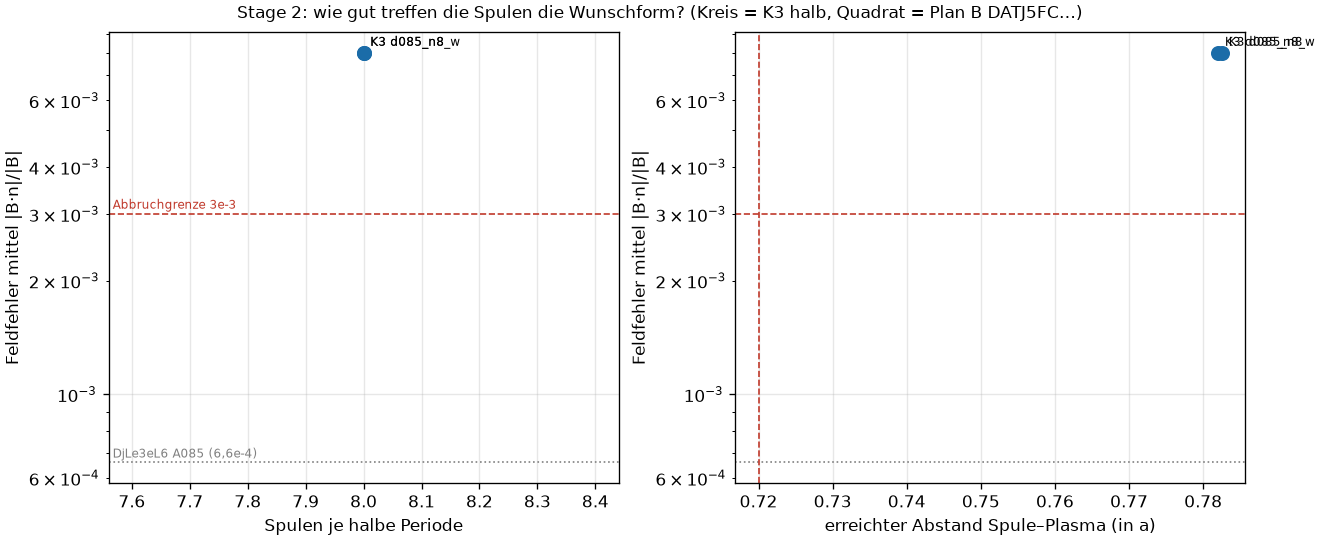
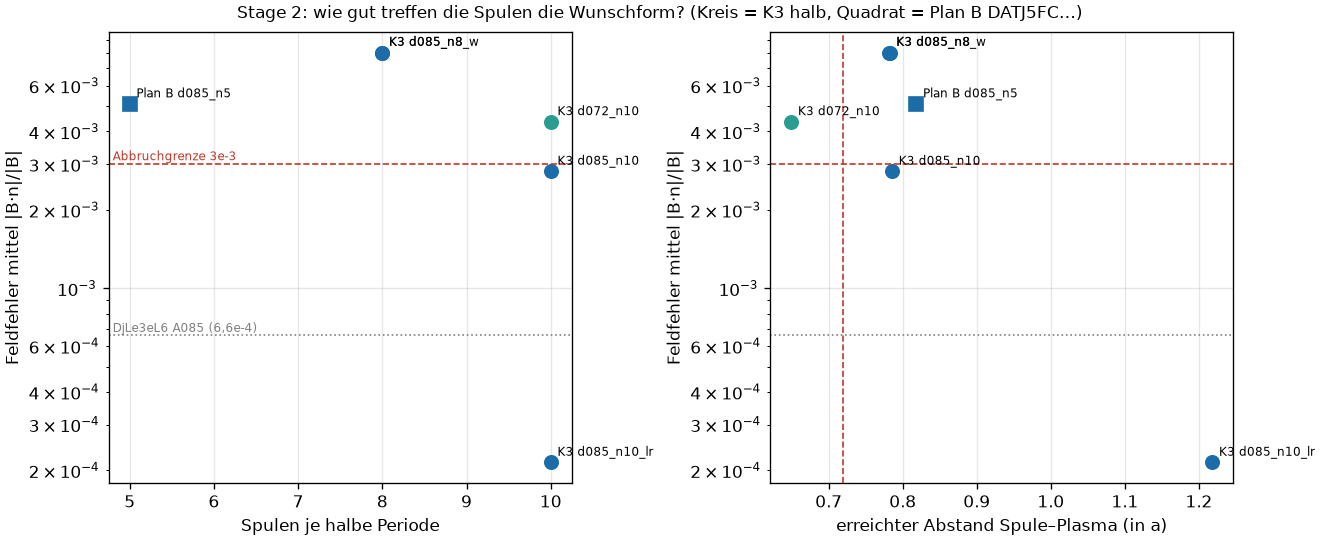
Kette K3 komplett: eigene Spulen K3 halb (2,1e-4), PicoGK-Rohre, freie Grenze Verlustfaktor 1,14-1,17 (B-059, B-060)

diff --git a/stellarator/k3_spulen.py b/stellarator/k3_spulen.py
@@ -60,9 +60,12 @@ def lauf(fall, maxiter=2000, runden=2):
     if (AUS / f"{fall}.fertig").exists():
         print("fertig, uebersprungen:", fall); return
     weiter = fall.endswith("_w"); kern = fall[:-2] if weiter else fall
-    teile = kern.split("_"); kern = "_".join(teile[:2]); rb = 0.5   # Varianten: _o<Ordnung>, _k<Biegeradius in 1/100 a>
+    teile = kern.split("_"); kern = "_".join(teile[:2]); rb = 0.5   # Varianten: _o<Ordnung>, _k<Biegeradius in 1/100 a>, _lr
+    laenge_ref = False                                            # _lr: Laengengrenze wie zwei_ringe (24,9 a je Spule, Proxima-Satz)
     for t in teile[2:]:
-        if t.startswith("o"):
+        if t == "lr":
+            laenge_ref = True
+        elif t.startswith("o"):
             zr.ORD = int(t[1:])
         elif t.startswith("k"):
             rb = int(t[1:]) / 100
@@ -76,6 +79,8 @@ def lauf(fall, maxiter=2000, runden=2):
         phi = (i + 0.5) * 2 * np.pi / (2 * nfp * n)
         basis.append(zr.startkurve(s_v, phi, 1.08 * d * a)); I0.append(1e5)
     l_start = float(sum(CurveLength(c).J() for c in basis)); l_max = 1.25 * l_start
+    if laenge_ref:                                                # wie zwei_ringe.optimieren: n * (Mittel Proxima-Satz + Umfangszuwachs)
+        l_max = float(n * (np.mean(ref["ringe"]["ring0"]["laenge_basis_a"]) + 2 * np.pi * max(d - 0.85, 0)) * a)
     roh = [Current(x / 1e5) for x in I0]
     if weiter:                                                    # Kurven und Stroeme aus dem fertigen Lauf
         from simsopt import load
@@ -120,7 +125,7 @@ def lauf(fall, maxiter=2000, runden=2):
             if v:
                 w[k] *= 10
     e.update(fall=fall, abstand_soll_a=d, spulen_je_halbperiode=n, form=str(FORM.relative_to(ROOT)),
-             grenzen={"spule_spule_min_a": 0.3, "biegeradius_min_a": rb, "fourier_ordnung": zr.ORD, "msk_max": msk_max, "laenge_max": l_max, "laenge_start": l_start},
+             grenzen={"spule_spule_min_a": 0.3, "biegeradius_min_a": rb, "fourier_ordnung": zr.ORD, "laengenregel": "zwei_ringe" if laenge_ref else "1,25 x Start", "msk_max": msk_max, "laenge_max": l_max, "laenge_start": l_start},
              konvergenz={"runden": len(verlauf), "letzte_meldung": verlauf[-1]["meldung"], "grenzen_verletzt": verlauf[-1]["verletzt"],
                          "iter_letzte": verlauf[-1]["iter"]}, laufzeit_s=time.time() - t0,
              laenge_summe=float(sum(CurveLength(c).J() for c in basis)))

diff --git a/stellarator/qi_spulen.py b/stellarator/qi_spulen.py
@@ -134,15 +134,18 @@ def tabelle(name="basis", spec=None, nzeta=None):
     r = np.linspace(gi["r_min"], gi["r_max"], NR); z = np.linspace(gi["z_min"], gi["z_max"], NZ)
     ph = 2 * np.pi / nfp * np.arange(nzeta) / nzeta
     P, Zg, Rg = np.meshgrid(ph, z, r, indexing="ij")          # Reihenfolge (k, jz, ir) wie mgrid_provider
-    xyz = np.stack([Rg * np.cos(P), Rg * np.sin(P), Zg], -1).reshape(-1, 3)
-    br, bp, bz = [], [], []
+    xyz = np.ascontiguousarray(np.stack([Rg * np.cos(P), Rg * np.sin(P), Zg], -1).reshape(-1, 3))
+    c, s = np.cos(P.ravel()), np.sin(P.ravel()); del Rg, Zg
+    # vorbelegte Felder statt Listen (2026-11-07: 10 Gruppen x nzeta 100 sprengten mit Liste + np.array-Kopie den 6-GB-Scope)
+    br, bp, bz = (np.empty((len(basis), len(xyz))) for _ in range(3))
     for g in range(len(basis)):
         sp = coils_via_symmetries([basis[g]], [Current(1.0)], nfp, True)
-        bs = BiotSavart(sp); bs.set_points(np.ascontiguousarray(xyz)); B = bs.B()
-        c, s = np.cos(P.ravel()), np.sin(P.ravel())
-        br.append(B[:, 0] * c + B[:, 1] * s); bp.append(-B[:, 0] * s + B[:, 1] * c); bz.append(B[:, 2])
+        bs = BiotSavart(sp); bs.set_points(xyz); B = bs.B()
+        br[g] = B[:, 0] * c + B[:, 1] * s; bp[g] = -B[:, 0] * s + B[:, 1] * c; bz[g] = B[:, 2]
+        del bs, B, sp
         print("Gruppe", g, "fertig", flush=True)
-    np.savez(datei, b_r=np.array(br), b_p=np.array(bp), b_z=np.array(bz), r=r, z=z, phi=ph, nfp=nfp, nzeta=nzeta,
+    del xyz, c, s
+    np.savez(datei, b_r=br, b_p=bp, b_z=bz, r=r, z=z, phi=ph, nfp=nfp, nzeta=nzeta,
              gamma=np.array([k.gamma() for k in basis]), spec=json.dumps(spec or {}), **{k: v for k, v in gi.items()})
     return datei
 

diff --git a/stellarator/kette_k3_bilder.py b/stellarator/kette_k3_bilder.py
@@ -28,11 +28,13 @@ def profil():
               ("DjLe3eL6 frei, eigene Spulen A085, 3000", K / "satz_A085/frei/faelle/k_n3000.json", "#1b6ca8", "--"),
               ("DjLe3eL6 frei, eigene Spulen A085, 12000", K / "satz_A085/frei/faelle/k_n12000.json", "#1b6ca8", ":"),
               ("DjLe3eL6 frei, A085 nach PicoGK-Glättung", K / "satz_A085_glatt/frei/faelle/k_n3000.json", "#2a9d8f", "-.")]
-    for p in sorted(K.glob("stage2/satz_*/frei/faelle/fest_nz48.json")):
+    for p in sorted(K.glob("stage2/satz_*/frei/faelle/fest_nz*.json")):
         reihen.append((f"K3 halb fest (ohne Spulen)", p, "#6a4c93", "-"))
         break
+    farbe = {"d085_n10": "#f4a261", "d085_n10_lr": "#e76f51", "d085_n10_lr_glatt": "#9b2226", "d085_n8": "#e9c46a"}
     for p in sorted(K.glob("stage2/satz_*/frei/faelle/k_n*.json")):
-        reihen.append((f"K3 halb frei, eigene Spulen {p.parts[-4][5:]}, {p.stem[3:]}", p, "#e76f51", "--"))
+        satz = p.parts[-4][5:]
+        reihen.append((f"K3 halb frei, eigene Spulen {satz}, {p.stem[3:]}", p, farbe.get(satz, "#e76f51"), ":" if "12000" in p.stem else "--"))
     fig, ax = plt.subplots(figsize=(9, 5.5), constrained_layout=True)
     for lab, p, c, ls in reihen:
         if not p.exists():

diff --git a/docs/recherche/spulen_suche/kette_k3.md b/docs/recherche/spulen_suche/kette_k3.md
@@ -2,104 +2,145 @@
 
 **Frage.** Lässt sich unser bestes eigenes Plasma (Kandidat 3 halb, „K3 halb“, nfp 2) durch die ganze Kette führen: Plasmaform → Spulenkurven (Rückwärtsproblem, „Stage 2“) → Glättung → Wickelpaket als Rohr in PicoGK → STL → Plasma aus dem Spulenfeld (VMEC++ freie Grenze) → Verlustfaktor QI(mit Spulen)/QI(Plasma)?
 
-**Kurzantwort.** STAND_KURZ
+**Kurzantwort.** Ja. Für K3 halb gibt es jetzt einen eigenen Spulensatz (40 Spulen, Feldfehler 2,1·10⁻⁴, Abstand zum Plasma 1,22 a), daraus geschlossene Rohre als STL (PicoGK, geglättet), und das Plasma aus diesem Spulenfeld hat QI 5,6·10⁻⁵ statt 4,8·10⁻⁵ ohne Spulen: **Verlustfaktor 1,17** am Rand (3000 Rechenschritte; mit 12000 Schritten 1,14), 1,26 in halber Tiefe. Damit bleibt K3 halb auch mit Spulen etwa 8-mal besser als DjLe3eL6 mit eigenen Spulen. Die Glättung kostet praktisch nichts (Feldfehler +0,05 %, QI am Rand +0,02 %). Zwei Einschränkungen: Die Spulen sind lang (27 bis 55 m), stark gewunden und liegen so eng beieinander (0,54 m), dass sich Rohre von 0,85 m Durchmesser durchdringen; und der Randwert der freien Grenze ist rechnerisch nicht ganz sicher (siehe Schritt 1).
 
-Befunde B-059 und B-060, Erwartungen und Ergebnisse im Ereignisprotokoll F-261 bis F-266. Vorarbeit: Machbarkeit B-058 (`spulen_machbarkeit.md`), Kettenbild `kette_plasma_maschine.md`.
+Befunde B-059 und B-060, Erwartungen und Ergebnisse im Ereignisprotokoll F-261 bis F-271. Vorarbeit: Machbarkeit B-058 (`spulen_machbarkeit.md`), Kettenbild `kette_plasma_maschine.md`.
 
 ## Begriffe (für Maschinentechniker)
 
-- **Feldfehler B·n/|B|**: Anteil des Spulenfeldes, der *durch* die gewünschte Plasmaoberfläche hindurchstößt. Ideal 0: dann laufen die Feldlinien genau an der Wunschfläche entlang. Wie eine Passung: 6,6·10⁻⁴ heißt, das Feld steht im Mittel um 0,04° schief zur Fläche.
-- **Stage 2**: die Spulenkurven so verbiegen, dass der Feldfehler klein wird, unter Nebenbedingungen (Abstand zum Plasma, kleinster Biegeradius, Abstand der Spulen untereinander, Länge).
-- **Freie Grenze**: VMEC++ bekommt nur die Spulen und sucht selbst, wo das Plasma sitzt. Fest = Plasmaform vorgegeben (Wunsch). Der Vergleich frei/fest zeigt, was die Spulen vom Wunsch übrig lassen.
-- **Verlustfaktor**: QI frei / QI fest am Plasmarand. 1 = Spulen treffen das Wunschfeld perfekt.
+- **Feldfehler B·n/|B|**: Anteil des Spulenfeldes, der *durch* die gewünschte Plasmaoberfläche hindurchstößt. Ideal 0: dann laufen die Feldlinien genau an der Wunschfläche entlang. Wie eine Passung: 2·10⁻⁴ heißt, das Feld steht im Mittel um etwa 0,01° schief zur Fläche.
+- **Stage 2**: die Spulenkurven so verbiegen, dass der Feldfehler klein wird, unter Nebenbedingungen (Abstand zum Plasma, kleinster Biegeradius, Abstand der Spulen untereinander, Gesamtlänge).
+- **Freie Grenze**: VMEC++ bekommt nur die Spulen und sucht selbst, wo das Plasma sitzt. **Fest** = Plasmaform vorgegeben (Wunsch). Der Vergleich frei/fest zeigt, was die Spulen vom Wunsch übrig lassen.
+- **Verlustfaktor**: QI frei / QI fest. 1 = Spulen treffen das Wunschfeld perfekt.
 - **QI**: Maß, wie gut gefangene Teilchen im Feld gehalten werden (kleiner = besser).
+- **a**: kleiner Plasmaradius (hier als 1,80 m angenommen); Abstände werden in a angegeben, weil sie dann nicht vom Maßstab abhängen.
 - **TripleOffset (PicoGK)**: Körper erst um g nach innen versetzen, dann um 2 g nach außen, dann um g nach innen. Ecken und Kanten unter g verschwinden, der Rest bleibt gleich – wie Entgraten mit einem Kugelfräser vom Radius g.
 
 ## Annahmen (gekennzeichnet)
 
 | Größe | Wert | Herkunft |
 |---|---|---|
-| Anlagenmaßstab | kleiner Radius a = 1,80 m | wie `zwei_ringe.py` (A_REAL), Annahme der Kette |
+| Anlagenmaßstab | kleiner Radius a = 1,80 m | wie `zwei_ringe.py`, Annahme der Kette |
 | Rohrdurchmesser | 0,852 m (Kreis) | flächengleich zum quadratischen Wickelpaket 0,7552 m der Kette (`kopplung.WP_M`, Stufe 0) |
 | Voxelgröße / Glättung | 25 mm / TripleOffset 100 mm | eigene Wahl |
-| Stage-2-Grenzen | Biegeradius ≥ 0,5 a, Spule–Spule ≥ 0,3 a, mittlere quadr. Krümmung wie Proxima-Satz (maßstabsgerecht), Länge ≤ 1,25 × Startlänge | `zwei_ringe.py`, Länge neu (Annahme) |
-| Freie Grenze | 5 Toroidalpunkte je Spulenabstand (nzeta 48 bei 10 Spulen/Periode, 80 bei 16), 3000 Schritte, Ergebnis auch ohne volle Toleranz | Einstellungen k_n3000 aus B-053 |
+| Stage-2-Grenzen | Biegeradius ≥ 0,5 a, Spule–Spule ≥ 0,3 a, mittlere quadratische Krümmung wie Proxima-Satz (maßstabsgerecht), Gesamtlänge ≤ 24,9 a je Spule | `zwei_ringe.py` (Länge = Mittel des Proxima-Satzes von DjLe3eL6) |
+| Freie Grenze | 5 Toroidalpunkte je Spulenabstand (nzeta 48 bei DjLe3eL6, 100 bei K3), 3000 bzw. 12000 Schritte, Ergebnis auch ohne volle Toleranz | Einstellungen k_n3000/k_n12000 aus B-053 |
 
 ## Schritt 1: Spulen-Leser und Prüfstein mit eigenen A085-Spulen (DjLe3eL6)
 
-Werkzeug: `stellarator/spulen_satz.py` schreibt einen simsopt-Spulensatz in einen Satz-Ordner (Plasmarand + Basiskurven, Längenfaktor), `stellarator/qi_spulen.py` liest ihn mit `QI_SATZ=<Ordner>` (ohne Variable unverändert Proxima). Die A085-Spulen aus `zwei_ringe.py` lagen im 1,699-fachen Maßstab und wurden zurückgerechnet; der Feldfehler stimmt danach auf fünf Stellen (6,5978·10⁻⁴).
+Werkzeug: `stellarator/spulen_satz.py` schreibt einen simsopt-Spulensatz in einen Satz-Ordner (Plasmarand + Basiskurven, Längenfaktor), `stellarator/qi_spulen.py` liest ihn mit `QI_SATZ=<Ordner>` (ohne Variable unverändert Proxima). Die A085-Spulen aus `zwei_ringe.py` lagen im 1,699-fachen Maßstab und wurden zurückgerechnet; der Feldfehler stimmt danach auf fünf Stellen (6,5978·10⁻⁴). Die feste Rechnung trifft den früheren Wert bitgleich (0,00044558).
 
-| | QI Rand | Verlustfaktor | Randabweichung mittel / max | iota Rand/nfp |
-|---|---|---|---|---|
-| fest (Wunsch, nzeta 48) | 0,000446 | 1 | – | 0,0904 |
-| frei, Proxima-Spulen (B-053) | 0,000579 | 1,30 | 0,0125 a / – | – |
-| frei, eigene A085-Spulen | 0,000451 | **1,013** | 0,010 a / 0,066 a | 0,0968 |
-| frei, A085, 12000 Schritte | A085_12000 | | | |
-| frei, A085 nach PicoGK-Glättung | A085_GLATT | | | |
+| DjLe3eL6 | QI Rand | Verlustfaktor Rand | s = 0,5 | Randabweichung mittel / max | iota Rand/nfp |
+|---|---|---|---|---|---|
+| fest (Wunsch, nzeta 48) | 0,000446 | 1 | 1 | – | 0,0904 |
+| frei, Proxima-Spulen, 3000 / 12000 Schritte (B-053) | 0,000579 / 0,000671 | 1,30 / 1,50 | – | 0,0125 a / – | – |
+| frei, eigene A085-Spulen, 3000 Schritte | 0,000451 | **1,013** | 1,011 | 0,010 a / 0,066 a | 0,0968 |
+| frei, eigene A085-Spulen, 12000 Schritte | 0,000558 | **1,25** | 1,004 | 0,009 a / 0,089 a | 0,0943 |
+| frei, A085 nach PicoGK-Glättung, 3000 Schritte | 0,000452 | 1,013 | 1,010 | 0,010 a / – | – |
 
 ![QI je Fläche](kette_k3/qi_profil.png)
 
-**Lesehilfe.** Waagerecht: Lage im Plasma, links die Mitte (Achse), rechts der Rand. Senkrecht: QI-Fehler jeder Fläche, logarithmisch (eine Teilung = Faktor 10, unten ist besser). Schwarz ist das Wunschplasma ohne Spulen. Rot ist das Plasma, das die fremden Proxima-Spulen erzeugen: nach außen hin bis 50 % schlechter. Blau sind unsere eigenen A085-Spulen: fast deckungsgleich mit Schwarz, am Rand nur 1 % schlechter. Gestrichelt und gepunktet sind zwei Rechenlängen (3000/12000 Schritte); liegen sie aufeinander, ist das Ergebnis stabil.
+**Lesehilfe.** Waagerecht: Lage im Plasma, links die Mitte (Achse), rechts der Rand. Senkrecht: QI-Fehler jeder Fläche, logarithmisch (eine Teilung = Faktor 10, unten ist besser). Oben die Form DjLe3eL6: schwarz ohne Spulen, rot mit den fremden Proxima-Spulen (nach außen bis 50 % schlechter), blau mit unseren A085-Spulen (fast deckungsgleich mit Schwarz), türkis dieselben nach der PicoGK-Glättung (liegt auf Blau). Unten, etwa zehnmal besser, unser Plasma K3 halb: violett ohne Spulen, hellorange mit dem schwächeren K3-Satz d085_n10, rot mit dem besten Satz d085_n10_lr (gepunktet 12000 Schritte, dunkelrot nach der PicoGK-Glättung – liegt genau auf dem roten 3000er-Verlauf und verdeckt ihn). Alle K3-Verläufe mit Spulen liegen nur wenig über Violett: Die Spulen kosten 14 bis 33 % am Rand, die Form gewinnt gegenüber DjLe3eL6 einen Faktor 8. Gestrichelt = 3000, gepunktet = 12000 Rechenschritte; wo sie auseinanderlaufen, ist der Wert nicht sicher.
 
-**Belegt:** Die Kette Spulen-JSON → Feldtabelle → VMEC++ freie Grenze → QI läuft mit eigenen Spulen. Ein kleinerer Feldfehler (6,6·10⁻⁴ statt 2,4·10⁻³) gibt hier einen viel kleineren Verlust (1,01 statt 1,30). **Folgerung:** Der große Verlust mit Proxima-Spulen in B-053 lag am Spulensatz, nicht an der freien Grenze.
+**Belegt:** Die Kette Spulen-JSON → Feldtabelle → VMEC++ freie Grenze → QI läuft mit eigenen Spulen. Eigene Spulen mit kleinerem Feldfehler (6,6·10⁻⁴ statt 2,4·10⁻³) verlieren 17 bis 22 % weniger als Proxima. **Einschränkung (belegt):** Der Randwert der freien Grenze hängt von der Rechenlänge ab (1,01 bei 3000, 1,25 bei 12000 Schritten), innen nicht (s = 0,5: 1,00 bis 1,01). Der Verlustfaktor am Rand ist darum auf etwa ±10 % unsicher; Vergleiche nur bei gleicher Einstellung, s = 0,5 immer mitmelden.
 
 ## Schritt 2: Stage 2 für K3 halb
 
-STAGE2
+Werkzeug `stellarator/k3_spulen.py`: der Ansatz von `zwei_ringe.py` (Start an der um den Sollabstand versetzten Randlinie, Fourier-Ordnung 7, Strafen für Abstand, Krümmung, Spule–Spule, Länge), verallgemeinert auf jede Randform. Läufe je 7 bis 19 Minuten, höchstens zwei gleichzeitig, jeder in einem eigenen 6-GB-Scope.
+
+| Lauf | Spulen | Längengrenze | Feldfehler mittel / max | Abstand Spule–Plasma | Spule–Spule |
+|---|---|---|---|---|---|
+| K3 d085_n8 (+ 2 Runden Fortsetzung) | 32 | 1,25 × Startlänge | 8,0·10⁻³ / 5,0·10⁻² | 0,78 a | 0,76 a |
+| K3 d072_n10 | 40 | 1,25 × Startlänge | 4,35·10⁻³ / 2,9·10⁻² | 0,62 a (unter Grenze 0,72 a) | 0,66 a |
+| K3 d085_n10 | 40 | 1,25 × Startlänge | 2,80·10⁻³ / 1,8·10⁻² | 0,79 a | 0,56 a |
+| **K3 d085_n10_lr** | 40 | 24,9 a je Spule (wie zwei_ringe) | **2,15·10⁻⁴ / 1,7·10⁻³** | **1,22 a** | 0,30 a (Grenze) |
+| Plan B DATJ5FC… d085_n5 | 40 | 1,25 × Startlänge | 5,0·10⁻³ / 3,1·10⁻² | 0,82 a | 0,59 a |
+| Kontrolle DjLe3eL6 d085_n5 (1 Runde) | 40 | 1,25 × Startlänge | 4,36·10⁻³ | 0,81 a | 0,69 a |
+| Kontrolle DjLe3eL6 d085_n5_lr (2 Runden) | 40 | 24,9 a je Spule | 9,0·10⁻⁴ (zwei_ringe A085: 6,6·10⁻⁴) | 0,83 a | 0,30 a |
+
+![Stage 2](kette_k3/stage2.png)
+
+**Lesehilfe.** Jeder Punkt ist ein Spulenentwurf. Links: Feldfehler über der Zahl der Spulen je halber Periode; rechts: Feldfehler über dem erreichten Abstand Spule–Plasma. Senkrecht logarithmisch, unten ist besser. Rot gestrichelt die Abbruchgrenze 3·10⁻³ (über ihr gilt ein Entwurf als unbrauchbar) und rechts die Mindestabstandsgrenze 0,72 a (≈ 1,3 m Abschirmung). Grau gepunktet der Bezug A085 (DjLe3eL6). Kreise K3 halb, Quadrat Plan B. Der Punkt ganz unten rechts (d085_n10_lr) ist der einzige, der beide Grenzen klar einhält.
+
+**Was schiefging und wie es gefunden wurde.** Die ersten fünf Läufe blieben bei 2,8·10⁻³ bis 8·10⁻³ hängen, auch Plan B, obwohl diese Form der DjLe3eL6 ähnelt, für die Stage 2 schon 6,6·10⁻⁴ erreicht hatte. Ein Kontrolllauf meines Skripts auf DjLe3eL6 ergab 4,4·10⁻³ statt 6,6·10⁻⁴ – also lag es am Skript. Ursache (gemessen): meine eigene Längengrenze (1,25 × Startlänge) war bindend, die Spulen endeten genau an ihr (K3: 172,4 a bei Grenze 172,3 a). Mit der Längenregel aus `zwei_ringe.py` fiel der Feldfehler von K3 auf 2,15·10⁻⁴ (Faktor 13), die Kontrolle auf 9,0·10⁻⁴ (Größenordnung von A085, nicht bitgleich: andere Flächenauflösung). Lehre: ein verallgemeinertes Skript erst am bekannten Fall prüfen.
+
+**Belegt:** K3 halb lässt sich mit Einzelspulen dieses Typs treffen (2,15·10⁻⁴, besser als A085 bei DjLe3eL6). **Folgerung:** Die Befürchtung aus B-058 (gestreckte Form, kleine Gradientenlänge → Spulen müssen sehr nah ran) trifft nicht zu, solange die Spulen lang genug sein dürfen. Der Preis: Gesamtlänge an der Grenze (249 a ≈ 450 m je halbe Periode), Biegeradius und Spule–Spule ebenfalls an ihren Grenzen. Plan B wurde mit der richtigen Längenregel nicht mehr gerechnet (nicht nötig, Zeit).
 
 ## Schritt 3: Rohr in PicoGK, Glättung, STL
 
-Ablauf: Jede Basisspule (eine halbe Periode, die anderen sind Spiegel- und Drehkopien) wird in PicoGK als Kette kurzer Balken mit Kreisquerschnitt entlang der Mittellinie (400 Punkte) aufgebaut, voxelisiert (25 mm), mit TripleOffset 100 mm geglättet und als STL je Spule und als Vereinigung geschrieben (`stellarator/k3_rohr.py`, Konsolen-App `picogk/SpulenRohr`, headless, ohne Fenster). Prüfung in Python: offene Kanten, Durchmesser je Querschnitt, Abstand zur Plasmafläche, und die Mittellinie des geglätteten Rohrs wird per Kreisausgleich je Querschnitt zurückgewonnen und erneut als Spule gerechnet. So wird der Verlust durch die Glättung eine eigene Zahl.
+Ablauf: Jede Basisspule (eine halbe Periode, die anderen sind Spiegel- und Drehkopien) wird in PicoGK als Kette kurzer Balken mit Kreisquerschnitt entlang der Mittellinie (400 Punkte) aufgebaut, voxelisiert (25 mm), mit TripleOffset 100 mm geglättet und als STL je Spule und als Vereinigung geschrieben (`stellarator/k3_rohr.py`, Konsolen-App `picogk/SpulenRohr`, headless, ohne Fenster). Prüfung in Python: offene Kanten, Durchmesser je Querschnitt, Abstand zur Plasmafläche; die Mittellinie des geglätteten Rohrs wird per Kreisausgleich je Querschnitt zurückgewonnen und erneut als Spule gerechnet. So wird der Verlust durch die Glättung eine eigene Zahl. PicoGK läuft auf diesem Rechner ohne Fehler (eine Halbierungssuche war nicht nötig).
 
-Geprüft an zwei Spulensätzen: A085 (DjLe3eL6, 5 Basisspulen) und dem ersten K3-Satz d085_n8 (8 Basisspulen). PicoGK läuft auf diesem Rechner headless: 45 s bzw. 49 s für alle Rohre einer halben Periode.
+| Prüfung | A085 (DjLe3eL6) | K3 d085_n10 | **K3 d085_n10_lr** |
+|---|---|---|---|
+| Rechenzeit PicoGK | 45 s (5 Rohre) | 62 s (10) | 86 s (10) |
+| offene Kanten / mannigfaltig | 0 / ja | 0 / ja | 0 / ja |
+| Durchmesser je Querschnitt (Soll 0,852 m) | 0,851 bis 0,855 m | 0,851 bis 0,853 m | 0,851 bis 0,854 m |
+| Volumen gegen π r² L | −0,14 % | −0,14 % | −0,14 % (gleiches Verfahren) |
+| Mittellinie nach Glättung, Versatz mittel / max | 0,24–0,52 / 1,7 mm | 0,15–0,27 / 0,6 mm | 0,20–0,41 / 1,2 mm |
+| **Feldfehler-Änderung durch die Glättung** | **+0,015 %** | **+0,010 %** | **+0,05 %** |
+| **QI-Änderung durch die Glättung (frei, 3000)** | **+0,08 % Rand, −0,07 % s = 0,5** | nicht gerechnet | **+0,02 % Rand, −0,4 % s = 0,5** |
+| kleinster Abstand Rohroberfläche–Plasma | 1,05 m (0,58 a) | 0,95 m (0,53 a) | 1,76 m (0,98 a) |
+| Rohre durchdringen sich (Summe − Vereinigung) | 0,92 m³ | 0 | 0,81 m³ |
+| Rohrlängen | 30 bis 61 m | 17 bis 55 m | 27 bis 55 m |
 
-| Prüfung | A085 (DjLe3eL6) | K3 d085_n8 |
-|---|---|---|
-| offene Kanten / mannigfaltig | 0 / ja (alle 5) | 0 / ja (alle 8) |
-| Durchmesser je Querschnitt (Soll 0,852 m) | 0,851 bis 0,855 m | 0,851 bis 0,853 m |
-| Volumen gegen π r² L | −0,14 % | −0,14 % |
-| Mittellinie vor der Glättung (Messfehler des Rückgewinnens) | 0,2 bis 0,4 mm mittel | 0,15 bis 0,23 mm mittel |
-| Mittellinie nach der Glättung | 0,24 bis 0,52 mm mittel, max 1,7 mm | 0,15 bis 0,23 mm mittel, max 0,6 mm |
-| **Feldfehler-Änderung durch die Glättung** | **+0,015 %** | **+0,006 %** |
-| Feldfehler Rohr gesamt gegen Kurve | +0,013 % | +0,033 % |
-| **QI-Änderung durch die Glättung (freie Grenze, 3000 Schritte)** | **+0,08 % am Rand, −0,07 % bei s = 0,5** | nicht gerechnet |
-| kleinster Abstand Rohroberfläche–Plasma | 1,05 m (0,58 a, Spule S3) | 0,97 m (0,54 a, S8) |
-| Rohre durchdringen sich (Summe − Vereinigung) | 0,92 m³ | 0 (Spule–Spule 0,76 a = 1,37 m) |
-| Rohrlängen | 30 bis 61 m | 17 bis 52 m |
+![Rohre K3](kette_k3/rohr_K3_d085_n10_lr.png)
+
+**Lesehilfe.** Blick schräg von oben auf den ganzen Ring. Orange ist das Plasma von K3 halb, ein stark gestrecktes, verdrilltes Band; es wiederholt sich zweimal im Ring (nfp 2). Blau die geglätteten Rohre einer halben Periode (ein Viertel des Rings), grau die Mittellinien aller übrigen Spulen, die durch Drehen und Spiegeln entstehen. Die Spulen laufen nicht als einfache Ringe um das Plasma, sondern in weiten, gewellten Bügeln, dicht gebündelt; dort, wo sie sich fast berühren, durchdringen sich die 0,85-m-Rohre.
+
+![Schnitt K3](kette_k3/schnitt_K3_d085_n10_lr.png)
+
+**Lesehilfe.** Senkrechter Schnitt durch die Maschine bei φ = 2,1° (durch die Mitte der ersten Spule), wie ein Schnitt in der Zeichnung. Waagerecht der Abstand von der senkrechten Maschinenachse, senkrecht die Höhe, beides in Metern und im gleichen Maßstab. Orange: Plasmaquerschnitt (etwa 4 m hoch, 2,5 m breit). Blau: wo der Schnitt die Rohre trifft. Kreisrund erscheinen Rohre, die senkrecht durch die Ebene laufen (links und rechts vom Plasma, 3 bis 4 m Abstand); länglich erscheinen Rohre, die schräg durch die Ebene laufen. Die Rohrschnitte bis 10 m Höhe zeigen, wie weit die Bügel über das Plasma hinausragen – für ein Tragwerk ein großer Bauraum.
 
 ![Rohre A085](kette_k3/rohr_A085.png)
 
-**Lesehilfe.** Blick schräg von oben auf den ganzen Ring. Orange ist das Plasma (Wunschform), blau die geglätteten Rohre einer halben Periode (ein Achtel des Rings), grau die Mittellinien aller übrigen Spulen, die durch Drehen und Spiegeln entstehen. Man sieht: Die A085-Spulen machen Schleifen und Knoten. Rechnerisch treffen sie das Feld gut, gebaut würde man sie so nicht.
+**Lesehilfe.** Zum Vergleich DjLe3eL6 (nfp 4, darum viermal wiederholt) mit A085-Spulen. Auch hier machen die Spulen Schleifen und Knoten; rechnerisch gut, gebaut würde man sie so nicht.
 
-![Rohre K3](kette_k3/rohr_K3_d085_n8.png)
+![Rohre K3 erster Versuch](kette_k3/rohr_K3_d085_n8.png)
 
-**Lesehilfe.** Dasselbe für K3 halb (nfp 2, darum nur zwei Wiederholungen im Ring; die halbe Periode ist ein Viertel des Rings). Das Plasma ist ein stark gestrecktes Band. Die blauen Rohre umschlingen es teils in engen Windungen, teils laufen sie in weiten Bögen weit vom Plasma weg (bis etwa 8 m darüber, siehe Schnitt). Das ist ein Zeichen, dass der Optimierer mit der Form kämpft: Weit entfernte Bögen tragen kaum zum Feld am Plasma bei.
+**Lesehilfe.** Der erste K3-Versuch (d085_n8, zu enge Längengrenze, Feldfehler 8·10⁻³): Die Spulen schlingen sich teils eng ums Plasma und laufen teils in weiten Bögen weg – der Optimierer kämpfte gegen die Längengrenze.
 
-![Schnitt K3](kette_k3/schnitt_K3_d085_n8.png)
-
-**Lesehilfe.** Senkrechter Schnitt durch die Maschine bei φ = 1,6° (etwa durch die Mitte der ersten Spule), wie ein Schnitt in der Zeichnung. Waagerecht der Abstand von der senkrechten Maschinenachse, senkrecht die Höhe, beides in Metern und im gleichen Maßstab. Orange: Plasmaquerschnitt (gut 4 m hoch, 2,6 m breit). Blau: wo der Schnitt die Rohre trifft. Kreisrund erscheinen Rohre, die senkrecht durch die Schnittebene laufen (unten links und rechts, Abstand zum Plasma etwa 1 m); länglich erscheinen Rohre, die schräg durch die Ebene laufen. Die vier Rohrschnitte über 4 m Höhe gehören zu den weiten Bögen aus dem 3D-Bild.
-
-![Schnitt A085](kette_k3/schnitt_A085.png)
-
-**Lesehilfe.** Derselbe Schnitt für DjLe3eL6 mit A085-Spulen bei φ = 2,3°. Hier sitzen alle Rohre in 1,5 bis 2 m Abstand um das Plasma, aber auch hier laufen die meisten schräg durch die Ebene.
-
-**Belegt:** PicoGK baut die Rohre geschlossen und maßhaltig (±2 mm bei 25 mm Voxel), die Glättung durch TripleOffset kostet weniger als 0,02 % Feldfehler und 0,1 % QI. Grund: Der kleinste Biegeradius (0,5 a = 0,9 m) ist größer als der Rohrradius (0,43 m), die Glättung nimmt nur Voxelstufen weg. **Folgerung:** Der Verlust der Kette entsteht im Rückwärtsproblem (Stage 2) und in der freien Grenze, nicht in der Glättung. Bei A085 durchdringen sich die Rohre, weil die Spule–Spule-Grenze 0,3 a (0,54 m) kleiner ist als der Rohrdurchmesser (0,85 m); die Grenze müsste mindestens Rohrdurchmesser plus Spalt sein (≈ 0,5 a).
+**Belegt:** PicoGK baut die Rohre geschlossen und maßhaltig (±2 mm bei 25 mm Voxel), die Glättung durch TripleOffset kostet höchstens 0,05 % Feldfehler und bei A085 0,1 % QI. Grund: Der kleinste Biegeradius (0,5 a = 0,9 m) ist größer als der Rohrradius (0,43 m), die Glättung nimmt nur Voxelstufen weg. **Folgerung:** Der Verlust der Kette entsteht im Rückwärtsproblem und in der freien Grenze, nicht in der Glättung. Wo die Spulen auf die Grenze Spule–Spule 0,3 a (0,54 m) zusammenrücken, durchdringen sich Rohre von 0,85 m; für baubare Rohre muss diese Grenze mindestens Rohrdurchmesser plus Spalt sein (≈ 0,5 a), was den Feldfehler wieder erhöhen wird (nicht gerechnet).
 Methodenhinweis (Fehler unterwegs): Die erste Mittellinie aus dem Schwerpunkt der Netzpunkte im Querschnitt lag schon ohne Glättung 7 mm daneben (Feldfehler scheinbar +1,7 %); mit Kreisausgleich je Querschnitt 0,2 bis 0,5 mm.
 
 ## Schritt 4: freie Grenze für die K3-Spulen
 
-FREI
+| K3 halb (nzeta 100) | QI Rand | Verlustfaktor Rand | s = 0,5 | innen (s = 0,1 bis 0,9) | Randabweichung mittel / max | Elongation |
+|---|---|---|---|---|---|---|
+| fest (Wunsch) | 4,79·10⁻⁵ | 1 | 1 | 1 | – | 7,15 |
+| frei, Satz d085_n10 (Feldfehler 2,8·10⁻³), 3000 | 6,37·10⁻⁵ | **1,33** | 1,56 | 1,25 bis 1,58 | 0,019 a / 0,16 a | 6,78 |
+| frei, Satz d085_n10_lr (2,15·10⁻⁴), 3000 | 5,61·10⁻⁵ | **1,17** | 1,26 | 0,96 bis 1,30 | 0,018 a / 0,16 a | 6,81 |
+| frei, Satz d085_n10_lr, 12000 | 5,45·10⁻⁵ | **1,14** | 1,17 | 0,97 bis 1,20 | 0,014 a / 0,13 a | 6,92 |
+| frei, d085_n10_lr nach Glättung, 3000 | 5,61·10⁻⁵ | 1,17 | 1,25 | | 0,018 a / – | |
+
+iota am Rand und Spiegelverhältnis ändern sich um weniger als 1 % (0,0883 → 0,0881; 0,447 → 0,448). Die freie Grenze konvergierte in allen Fällen ohne Abbruch (Restkraft fsqr 2·10⁻¹²); eine Halbierungssuche war nicht nötig.
+
+**Belegt:** Unser Plasma behält mit eigenen Spulen QI 5,6·10⁻⁵ bis 6,4·10⁻⁵. Zum Vergleich DjLe3eL6 mit eigenen A085-Spulen: 4,5·10⁻⁴ bis 5,6·10⁻⁴, also etwa achtmal schlechter. Der Verlustfaktor (1,17 bis 1,33) bleibt deutlich unter der Meldegrenze 3 aus B-058. **Auffällig (Hinweis, nicht geprüft):** Beide K3-Sätze haben bei 3000 Schritten dieselbe Randabweichung (max 0,16 a) und verlieren gleich viel Elongation (7,15 → 6,8), obwohl ihr Feldfehler um Faktor 13 verschieden ist; mit 12000 Schritten schrumpft beides (0,13 a, Elongation 6,92) und QI wird besser (1,14 statt 1,17). Das deutet auf eine Grenze der Rechnung an den spitzen Enden des gestreckten Querschnitts, nicht auf die Spulen. Anders als bei DjLe3eL6 (1,01 → 1,25) wird der K3-Wert mit längerer Rechnung kleiner, nicht größer. Innen ist der Verlust des schlechteren Satzes größer als am Rand (1,56 gegen 1,33).
 
 ## Was offen bleibt
 
-OFFEN
+- **Baubarkeit der Spulen:** 40 Spulen von 27 bis 55 m Länge, an Biegeradius-, Längen- und Abstandsgrenze; Rohre durchdringen sich. Nächster Schritt: Stage 2 mit Spule–Spule ≥ 0,5 a (Rohr + Spalt) und dann Kräfte/Spannungen in der Tragwerkskette.
+- **Randwert der freien Grenze:** hängt von der Rechenlänge ab (DjLe3eL6: 1,01 bis 1,25); Ursache der gleichen Randabweichung beider K3-Sätze offen (Auflösung mpol/ntor der freien Grenze prüfen).
+- **Plan B** (DATJ5FC…) nur mit der zu engen Längengrenze gerechnet (5·10⁻³); mit der Regel aus zwei_ringe nicht gerechnet.
+- **Kontrolle** von `k3_spulen.py` gegen `zwei_ringe.py` nur in der Größenordnung (9,0·10⁻⁴ gegen 6,6·10⁻⁴, Faktor 1,36).
+- **B-057-Verdacht:** Die damals nicht konvergierten Fälle liefen ohne die Sondereinstellungen (nzeta 48, ftol, niter), mit denen alle konvergierten gerechnet wurden – das Scheitern kann daran liegen (nicht nachgerechnet).
 
 ## Laufende Rechnungen, Pause, Neustart
 
-LAEUFE
+Alle Rechnungen dieses Auftrags sind fertig, es läuft nichts mehr (Stand 10:28). Die Ketten sind wieder aufnehmbar, Fertiges wird übersprungen; Start immer aus dem Projektordner:
+
+| Kette | Inhalt | Neustart |
+|---|---|---|
+| `sim/kette_k3/lauf_schritt1.sh` | A085 frei (fest, 3000, 12000, geglättet) | `setsid nohup bash sim/kette_k3/lauf_schritt1.sh > sim/kette_k3/lauf_schritt1.log 2>&1 &` |
+| `sim/kette_k3/lauf_stage2.sh`, `lauf_stage2b.sh` | Stage 2 K3 (erste Fälle), Plan B, Varianten `_o10_k35` (abgebrochen, nicht gerechnet) | ebenso; gestrichene Fälle haben eine Sperre `.claim_<fall>` in `sim/kette_k3/stage2/` (Sperre löschen = Fall wird gerechnet) |
+| `sim/kette_k3/lauf_teil2.sh` … `lauf_teil5.sh` | freie Grenze d085_n10, Stage 2 `_lr`, Kontrolle, 12000 Schritte, geglätteter Satz | ebenso |
+| `sim/kette_k3/lauf_frei_k3.sh <fall> [<endung> [<nzeta>]]` | freie Grenze für einen beliebigen K3-Satz | direkt |
+
+Jede Rechnung läuft über `sim/kette_k3/slot.sh` (höchstens zwei gleichzeitig, eigener Scope mit 6 GB) und lässt sich mit `~/bin/rechnung pause` anhalten und mit `~/bin/rechnung weiter` fortsetzen; nach einem Neustart des Rechners beginnt eine angefangene Einzelrechnung neu.
 
 ---
 
 ## English summary
 
-SUMMARY
+**Question.** Can our own best plasma (candidate 3 half, “K3 half”, nfp 2) be carried through the whole chain: plasma shape → coil curves (stage 2) → smoothing → winding pack as a tube in PicoGK → STL → plasma from the coil field (VMEC++ free boundary) → loss factor QI(coils)/QI(plasma)?
+
+**Answer.** Yes. Step 1: `qi_spulen.py` now reads own simsopt coil sets (`QI_SATZ=<folder>`); the check with the existing A085 coils for DjLe3eL6 gives a free-boundary loss factor of 1.01 (3000 steps) to 1.25 (12000 steps), versus 1.30–1.50 with Proxima's coils; the edge value depends on the solver length, the value at half radius does not (1.00–1.01). Step 2: the generalised stage-2 script first stalled at mean normal-field errors of 2.8e-3 to 8e-3; a control run on DjLe3eL6 showed that my own length limit was binding. With the length rule of `zwei_ringe.py`, K3 half reaches 2.15e-4 at 1.22 a coil–plasma distance with 40 coils (27–55 m long, at the curvature, length and coil–coil limits). Step 3: PicoGK (headless console app) builds closed, dimensionally accurate tubes (0.852 m diameter, assumption: area-equivalent to the 0.7552 m square winding pack; a = 1.80 m); smoothing by triple offset changes the field error by at most 0.05 % and QI by 0.1 % (A085). Tubes interpenetrate where coils come within 0.54 m. Step 4: the free boundary for the K3 coils gives QI 5.6e-5 versus 4.8e-5 for the fixed boundary, a loss factor of 1.17 at the edge and 1.26 at half radius (1.14 and 1.17 with 12000 steps); a worse coil set (2.8e-3) gives 1.33/1.56. K3 half with coils therefore stays about eight times better than DjLe3eL6 with its own coils. Open: buildability (coil–coil limit ≥ tube diameter, forces), edge convergence of the free boundary, plan B with the correct length rule.

diff --git a/BEFUNDE.md b/BEFUNDE.md
@@ -5,6 +5,26 @@
 
 ---
 
+## B-060 Kette K3 komplett: eigene Spulen für K3 halb (Feldfehler 2,1e-4), PicoGK-Rohre, freie Grenze Verlustfaktor 1,14 bis 1,17 – K3 halb bleibt mit Spulen das beste Plasma (2026-11-07, Sonnet-Agent) ✅ (Rand ⚠)
+
+Erwartungen F-262, F-265 bis F-268, Ergebnisse F-267/F-269. Skripte `stellarator/k3_spulen.py` (Stage 2 beliebige Form, zwei_ringe-Ansatz; Varianten `_w` fortsetzen, `_o<N>` Fourier-Ordnung, `_k<NN>` Biegeradius, `_lr` Längenregel wie zwei_ringe), `stellarator/k3_rohr.py`, `stellarator/kette_k3_bilder.py`; Läufe `sim/kette_k3/` (lauf_stage2*.sh, lauf_teil2…5.sh, lauf_frei_k3.sh), Ergebnisse `sim/kette_k3/stage2/` (Spulen satz_<fall>/, freie Grenze satz_<fall>/frei/faelle/), Plan B `sim/kette_k3/planb/`, Kontrolle `sim/kette_k3/kontrolle_dje/`.
+Stage 2 K3 halb (Form form_k3_f0.5.json, nfp 2, 2 Runden à 2000 Schritte, Feldfehler auf Prüfrand 128 × 64, Abstand fein):
+
+| Fall | Spulen | Längenregel | Feldfehler mittel / max | Abstand (a) | Spule–Spule (a) | Zeit |
+|---|---|---|---|---|---|---|
+| d085_n8 (+ _w, 2 weitere Runden) | 32 | 1,25 × Start | 8,0e-3 / 5,0e-2 | 0,78 | 0,76 | 7 + 12 min |
+| d072_n10 | 40 | 1,25 × Start | 4,35e-3 / 2,9e-2 | 0,62 (< 0,72) | 0,66 | 17 min |
+| d085_n10 | 40 | 1,25 × Start | 2,80e-3 / 1,8e-2 | 0,79 | 0,56 | 19 min |
+| **d085_n10_lr** | 40 | 24,9 a je Spule (zwei_ringe) | **2,15e-4 / 1,7e-3** | **1,22** | 0,30 (Grenze) | 11 min |
+| Plan B DATJ5FC d085_n5 | 40 | 1,25 × Start | 5,0e-3 / 3,1e-2 | 0,82 | 0,59 | 10 min |
+| Kontrolle DjLe3eL6 d085_n5 | 40 | 1,25 × Start | 4,36e-3 (Runde 1) | 0,81 | 0,69 | 8 min |
+| Kontrolle DjLe3eL6 d085_n5_lr | 40 | zwei_ringe | 9,0e-4 (2 Runden) | 0,83 | 0,30 | 15 min |
+
+Ursache der schlechten ersten Läufe (gemessen): meine Längengrenze 1,25 × Startlänge war bindend (K3 172,4 a bei Grenze 172,3 a; DjLe3eL6 88,9 a statt 124,5 a bei zwei_ringe). Mit der Regel aus zwei_ringe (Summe 249 a, an der Grenze) erreicht K3 halb 2,15e-4. Die Kontrolle trifft A085 (6,6e-4) mit 9,0e-4 nur in der Größenordnung (Faktor 1,36). Spulen: 27 bis 55 m lang, Biegeradius und Spule–Spule an ihren Grenzen, stark gewunden und weit ausladend (bis etwa 10 m über der Mittelebene, Bild kette_k3/schnitt_K3_d085_n10_lr.png).
+PicoGK (d085_n10_lr): 10 Rohre geschlossen (0 offene Kanten), Durchmesser 0,851 bis 0,854 m, 86 s; Rohre durchdringen sich (0,81 m³, Spule–Spule 0,54 m < 0,85 m); Rohr–Plasma ≥ 1,76 m (0,98 a); Glättung Feldfehler +0,05 %. d085_n10: Durchdringung 0, Rohr–Plasma 0,95 m, Glättung +0,01 %.
+Freie Grenze K3 (nzeta 100, 3000 Schritte, fest 4,79e-5): d085_n10_lr QI Rand 5,61e-5 → **Verlustfaktor 1,17**, s = 0,5 1,26, innen 0,96 bis 1,30; d085_n10 (2,8e-3) 6,37e-5 → 1,33, s = 0,5 1,56. Randabweichung beider Sätze 0,018/0,019 a mittel, 0,16 a max, Elongation 7,15 → 6,8 bei beiden (Verdacht: Rechengrenze, nicht Spulen). Gegenprobe 12000 Schritte d085_n10_lr: QI 5,45e-5 → **1,14**, s = 0,5 1,17, Randabweichung 0,014/0,13 a, Elongation 6,92 – längere Rechnung verkleinert Abweichung und Verlust (bei DjLe3eL6 umgekehrt, 1,01 → 1,25). iota/Spiegel ±1 %.
+Belegt: Die ganze Kette Plasmaform → Spulen → Rohr (PicoGK, STL) → freie Grenze → Verlustfaktor läuft für unser eigenes Plasma. Mit Spulen QI 5,6e-5 bis 6,4e-5 gegen DjLe3eL6 mit A085 4,5e-4 bis 5,6e-4 (Faktor 8). Folgerung: QI des Plasmas taugt als Auswahlmaß, der Spulenverlust (1,2 bis 1,6) ist kleiner als der Formvorteil. QI nach Glättung (d085_n10_lr, 3000): Rand +0,02 %, s = 0,5 −0,4 %. Offen: Baubarkeit der Spulen (Länge, Windungen, Durchdringung bei Rohr 0,85 m → Spule–Spule-Grenze ≥ 0,5 a nötig), Kräfte/Spannungen, Plan B mit Längenregel nicht gerechnet. Bericht docs/recherche/spulen_suche/kette_k3.md.
+
 ## B-059 Kette K3, Schritt 1: eigene Spulen (A085) durch die freie Grenze – Verlustfaktor 1,01 bis 1,25 statt 1,30 bis 1,50 mit Proxima; PicoGK-Rohr kostet nichts (2026-11-07, Sonnet-Agent) ✅
 
 Erwartung F-261 (Schritt 1) und F-263 (Rohr, an A085 erprobt). Werkzeug: `stellarator/spulen_satz.py` (simsopt-JSON -> Satz-Ordner boundary.json + spulen.json, Längenfaktor), `stellarator/qi_spulen.py` liest mit `QI_SATZ=<Ordner>` eigene Sätze (ohne Variable unverändert Proxima; Ergebnisse in `<Ordner>/frei/`), `stellarator/k3_rohr.py` + PicoGK-Konsolen-App `picogk/SpulenRohr` (Balkenkette mit Kreisquerschnitt, Voxel 25 mm, Glättung TripleOffset 100 mm, STL je Spule). Läufe `sim/kette_k3/lauf_schritt1.sh`, `slot.sh` (2 Plätze, Scope 6 GB).

diff --git a/ERINNERUNGEN.md b/ERINNERUNGEN.md
@@ -792,3 +792,5 @@ sim/invers/qi_* (Prüfläufe) sind eigene Zwischenstände, dürfen nach Bericht 
 - 2026-11-07 Machbarkeit Spulen-Rückwärtsproblem (B-058, F-257–F-260): Werkzeuge vorhanden (simsopt+DESC in .venv-opt, VMEC++ free-boundary in .venv-constellaration), nichts installiert. Empfehlung K3 halb als bestes Plasma, vorher Kettenprüfung mit eigenen A085-Spulen (sim/qi_zwei_ringe/biot_savart_A085.json) durch qi_spulen.py (Brücke fehlt noch), Plan B DATJ5FCamJ3 (nfp 4). Aufwand 4–7 h Rechenzeit. Bericht docs/recherche/spulen_suche/spulen_machbarkeit.md, rangliste.json. Nichts gerechnet außer Auswertung, nicht gepusht.
 - 2026-11-07 Plasma-Galerie fertig (ba0bdc5): 14 Formen als reine 3D-Fläche ohne VMEC++, stellarator/plasma_galerie.py -> docs/recherche/spulen_suche/galerie/ (PNG schräg+oben, galerie.md mit Lesehilfen, galerie_3d.html offline 6 MB). Koeffizientenzahl gegen CSV gleich, nfp-Perioden gezählt, Form geschlossen; nur 6 von 28 Bildern vom Agenten angesehen (+2 von mir). DjLe3eL6 fehlt in der Rangliste. Neustart: systemd-run --user --scope -q -p MemoryMax=3G -p MemorySwapMax=0 env OMP_NUM_THREADS=1 .venv-constellaration/bin/python -m stellarator.plasma_galerie
 - 2026-11-07 09:16 Kette K3 (Sonnet-Agent, Ziel: K3 halb bis eigene Spulen + Rohr + freie Grenze). Schritt 1 fertig (B-059, F-261/F-264): eigene A085-Spulen frei Verlustfaktor 1,01 (3000 Schritte) bis 1,25 (12000) (Proxima 1,30 bis 1,50); Werkzeuge stellarator/spulen_satz.py, qi_spulen.py mit QI_SATZ=<Ordner>, k3_rohr.py + picogk/SpulenRohr (PicoGK läuft, Glättung kostet 0,015 % Feldfehler). LÄUFT LOSGELÖST: sim/kette_k3/lauf_stage2.sh (Stage 2 K3, 6 Fälle, 2 Plätze über slot.sh, Ende sim/kette_k3/stage2/FERTIG) und sim/kette_k3/lauf_schritt1.sh (A085 12000 Schritte + A085 geglättet frei). Pause ~/bin/rechnung pause/weiter. Neustart: cd Projekt && setsid nohup bash sim/kette_k3/lauf_stage2.sh > sim/kette_k3/lauf_stage2.log 2>&1 & (Fertiges übersprungen). Bericht folgt docs/recherche/spulen_suche/kette_k3.md.
+- 2026-11-07 10:16 Kette K3 komplett (B-060, F-265 bis F-269): K3 halb mit eigenen Spulen d085_n10_lr (40 Spulen, Längenregel wie zwei_ringe) Feldfehler 2,15e-4, Abstand 1,22 a; PicoGK-Rohre geschlossen (durchdringen sich, Spule–Spule 0,54 m < Rohr 0,85 m); freie Grenze QI 5,61e-5 / fest 4,79e-5 = Verlustfaktor 1,17 (s = 0,5: 1,26). Erste Läufe (2,8e-3 bis 8e-3) waren durch meine zu enge Längengrenze gebremst (Kontrolle DjLe3eL6 bestätigt). LÄUFT: sim/kette_k3/lauf_teil5.sh (12000 Schritte + Satz nach Glättung frei), lauf_teil3.sh (Kontrolle DjLe3eL6 _lr, Runde 2). Neustart je: cd Projekt && setsid nohup bash sim/kette_k3/lauf_teil5.sh > sim/kette_k3/lauf_teil5.log 2>&1 & (Fertiges übersprungen). Pause ~/bin/rechnung pause/weiter.
+- 2026-11-07 10:31 Kette K3 ABGESCHLOSSEN (B-059, B-060, F-261 bis F-271, Bericht docs/recherche/spulen_suche/kette_k3.md): K3 halb mit eigenen Spulen d085_n10_lr frei Verlustfaktor 1,17 (3000) / 1,14 (12000), s = 0,5 1,26/1,17; Glättung PicoGK QI +0,02 %. Es läuft NICHTS mehr. Offen: Baubarkeit (Spule–Spule ≥ 0,5 a für Rohr 0,85 m, Kräfte), Plan B mit Längenregel, Randkonvergenz der freien Grenze, B-057-Verdacht (fehlende Sondereinstellungen). Ketten wieder aufnehmbar (sim/kette_k3/lauf_*.sh, Fertiges übersprungen), Pfade in /home/cae/hermes/PFADE_FUSION.md. Lokal committet, nicht gepusht.

diff --git a/docs/recherche/spulen_suche/kette_plasma_maschine.md b/docs/recherche/spulen_suche/kette_plasma_maschine.md
@@ -17,3 +17,5 @@
 **Kernaussage.** Es gibt keine durchgehende Verbindung von der Plasmaform zu den Bauteilen. Wir wissen, dass die Ströme QI über das Verhältnis der Gruppen steuern, nicht über Nähe oder Lage der Spulen (B-053, B-054). Eine Regel, wie sich die Spulenform bei geänderter Plasmaform ändert, haben wir nicht.
 
 **English summary.** The chain from plasma shape to a built machine has seven links. The challenge score only covers links 1–2 (shape and QI). Link 3 (coil shape from plasma shape, an inverse problem) is only partly done: tools are installed and own coils exist for one shape; links 4–7 exist only partially or for one coil set. We found that currents (ratios between coil groups), not coil proximity, steer QI.
+
+**Nachtrag 2026-11-07 (B-059, B-060).** Glied 3 und 5 sind für unser Plasma K3 halb jetzt durchgerechnet: eigene Spulen (Feldfehler 2,1·10⁻⁴), Rohre als STL aus PicoGK, freie Grenze mit Verlustfaktor 1,14 bis 1,17 (Bericht `kette_k3.md`). Das Bild oben zeigt noch den Stand vor diesem Nachtrag. *Addendum: links 3 and 5 are now computed for our own plasma K3 half (own coils, PicoGK tubes, free-boundary loss factor 1.14–1.17); the figure above predates this.*
